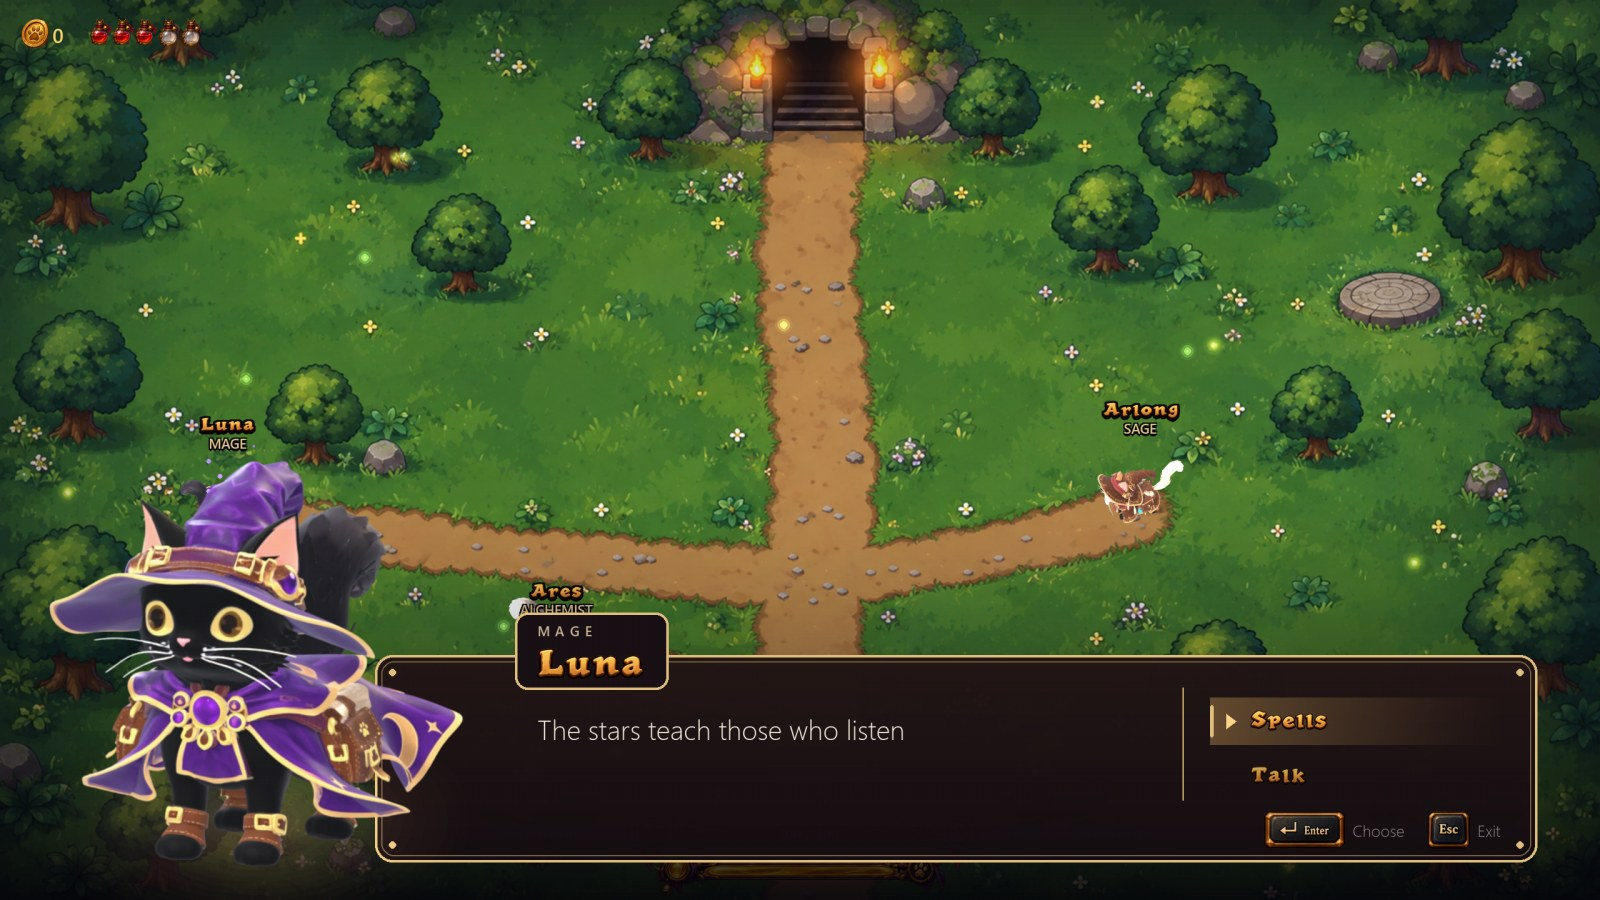
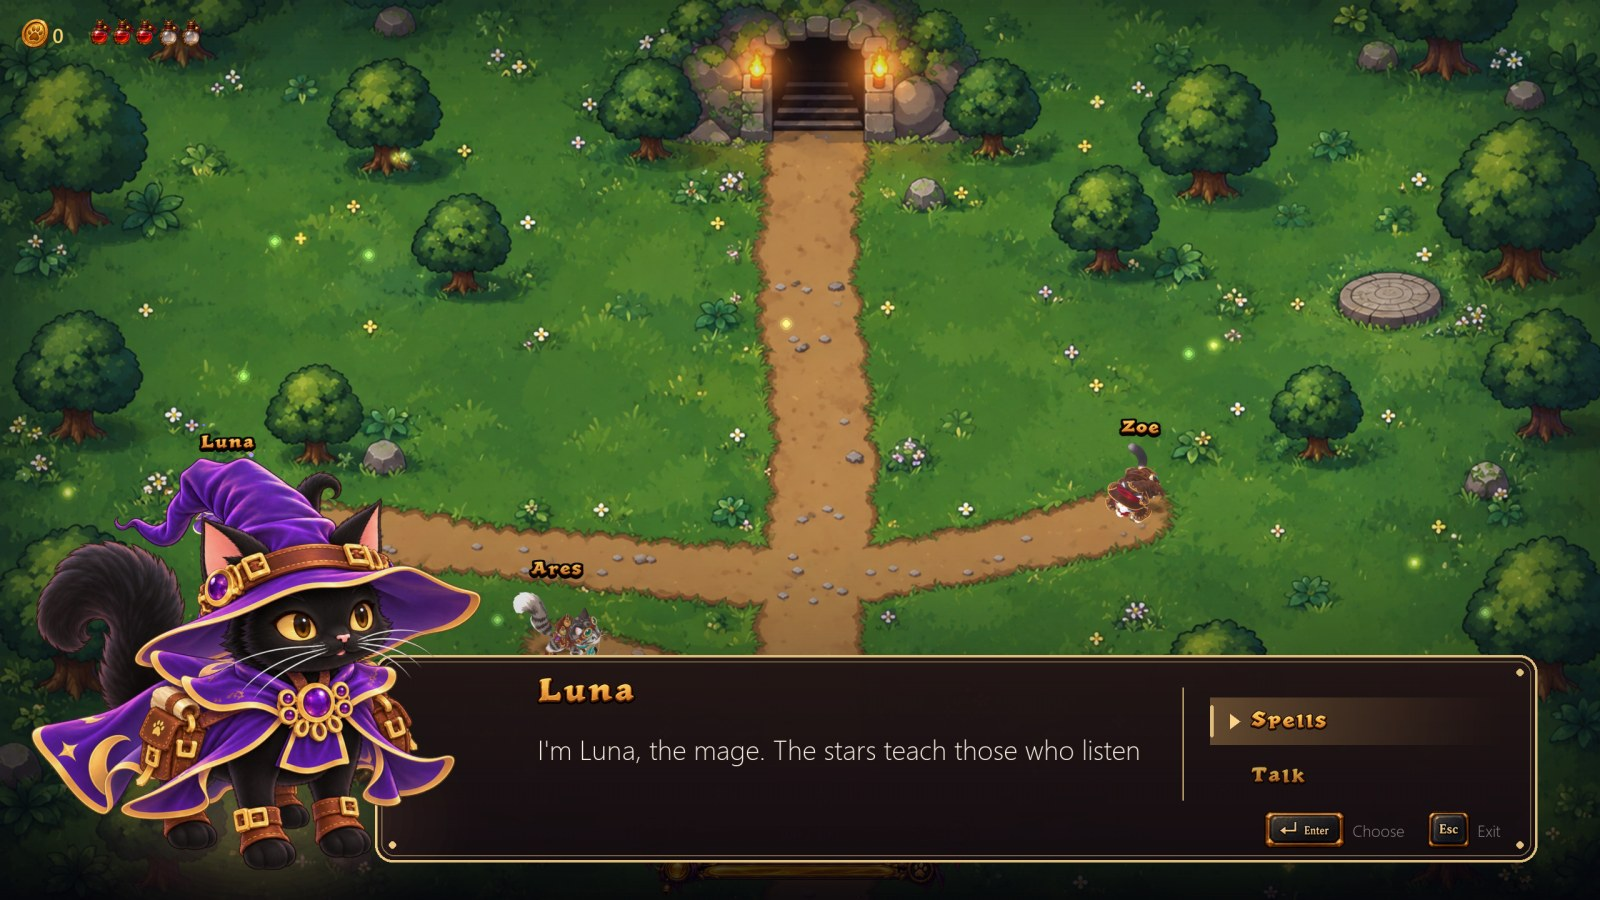
Demo page: Zoe the sage, new dialog screenshots

Changed region(s): [[0.0, 0.4667, 0.4375, 0.9644], [0.3438, 0.8089, 0.7188, 0.84], [0.6875, 0.4356, 0.75, 0.5911]]

diff --git a/README.md b/README.md
@@ -23,7 +23,7 @@
   </tr>
   <tr>
     <td><img src="images/luna.jpg" alt="Luna the mage"><br><b>A village to come back to.</b> Buy spells from Luna and upgrades from Ares.</td>
-    <td><img src="images/arlong.jpg" alt="Arlong the sage"><br><b>A story to uncover.</b> Arlong remembers what everyone else has forgotten.</td>
+    <td><img src="images/zoe.jpg" alt="Zoe the sage"><br><b>A story to uncover.</b> Zoe remembers what everyone else has forgotten.</td>
   </tr>
   <tr>
     <td><img src="images/training.jpg" alt="Training room"><br><b>Learn at your own pace.</b> The training room slows time down until you get it right.</td>
@@ -49,7 +49,7 @@
 - **Combat:** dodge, perfect parry with counterattacks, spells and gear
 - **Daring:** a flame that grows with bold play — burn it for a fiery blast and a few seconds of invulnerability
 - **Training room** with a master, to learn every move
-- **The village:** Ares the alchemist, Luna the mage and Arlong the sage
+- **The village:** Ares the alchemist, Luna the mage and Zoe the sage
 - **Ancient frescoes** broken into pieces, telling a forgotten story
 - **Keyboard & mouse or controller** (PlayStation / Xbox), fully rebindable
 
